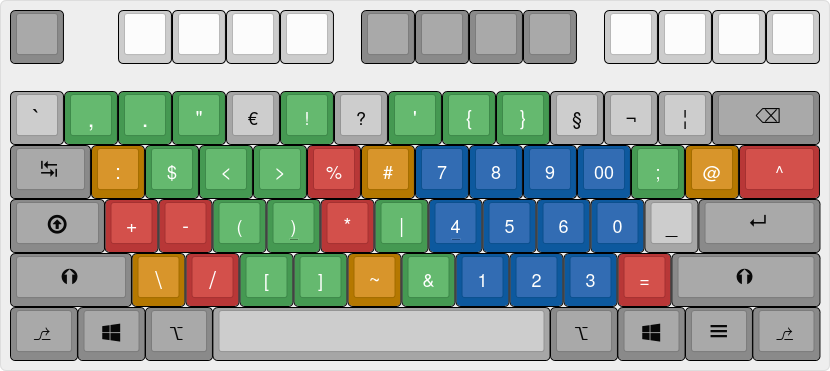
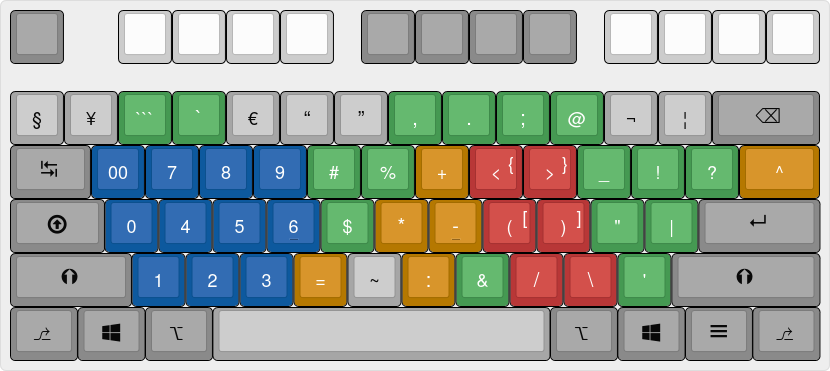
update(docs): add l-symbols assets

diff --git a/README.md b/README.md
@@ -101,9 +101,9 @@ The Symbols layer (default: <kbd>Left Alt</kbd>) provides ergonomic access to ma
 | Key Category  | Description |
 | :-----------: | ----------- |
 | ![Numpad keys](Assets/Images/Keyboard%20Layers/extend-blue.png) | Numpad keys |
-| ![Programming keys](Assets/Images/Keyboard%20Layers/extend-light-green.png) | Common programming symbols |
-| ![Additional math symbols](Assets/Images/Keyboard%20Layers/extend-orange.png) | Additional math symbols |
-| ![Math operators](Assets/Images/Keyboard%20Layers/extend-red.png) | Math operators |
+| ![Programming keys](Assets/Images/Keyboard%20Layers/extend-light-green.png) | Programming symbols |
+| ![Additional math symbols](Assets/Images/Keyboard%20Layers/extend-orange.png) | Math operators |
+| ![Math operators](Assets/Images/Keyboard%20Layers/extend-red.png) | Symbol pairs |
 | ![Misc. keys](Assets/Images/Keyboard%20Layers/extend-grey.png) | Misc. symbols |
 
 ## Acknowledgments
